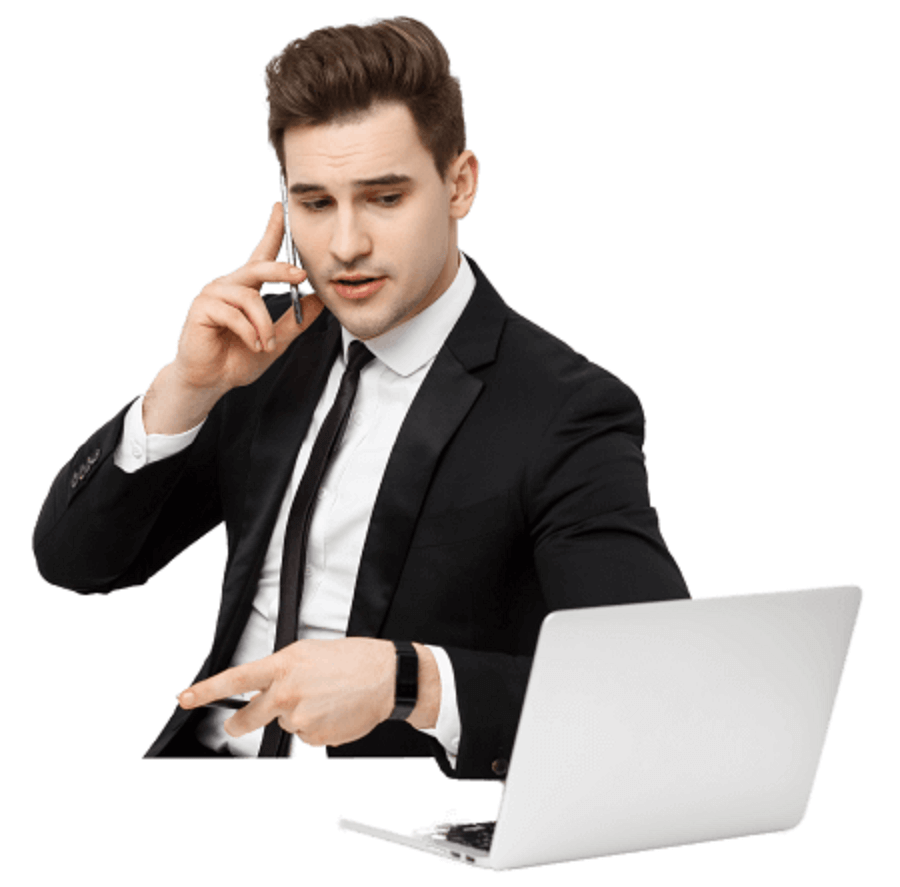
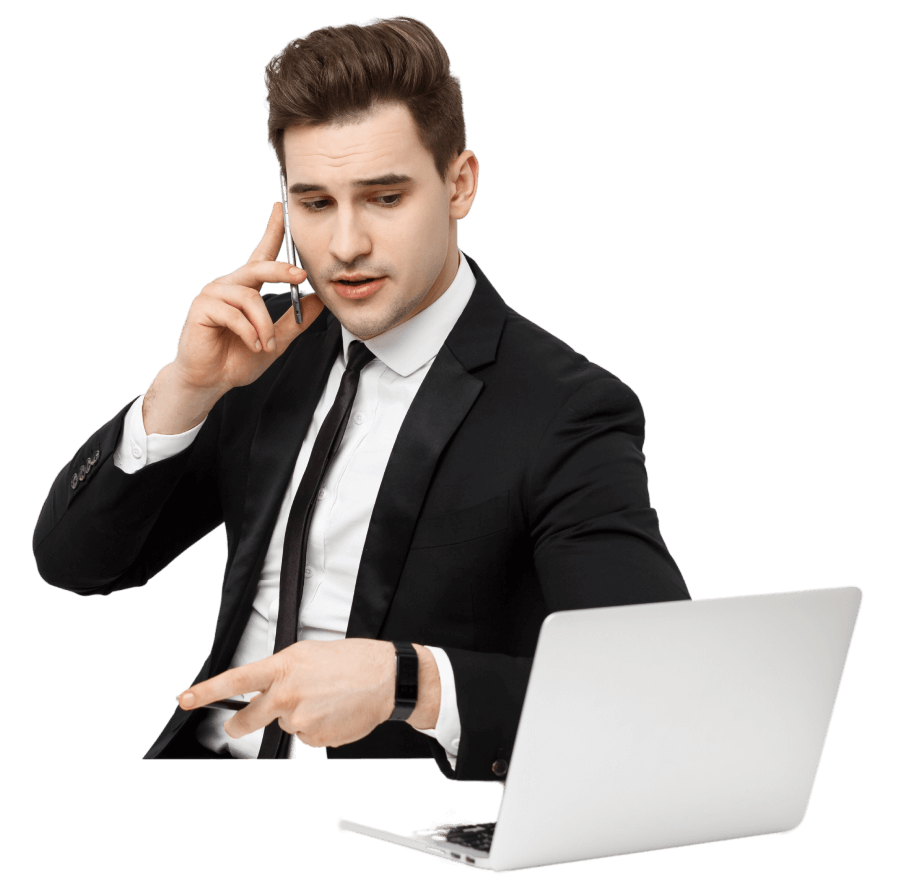
fix anh process

Changed region(s): [[0.3111, 0.274, 0.3422, 0.3348]]

diff --git a/assets/css/style.css b/assets/css/style.css
@@ -678,6 +678,11 @@ a {
     z-index: 1;
 }
 
+.process-item__img {
+    width: 450px;
+    height: 444px;
+}
+
 .process-item__desc {
     margin-left: auto;
     margin-right: 41px;
